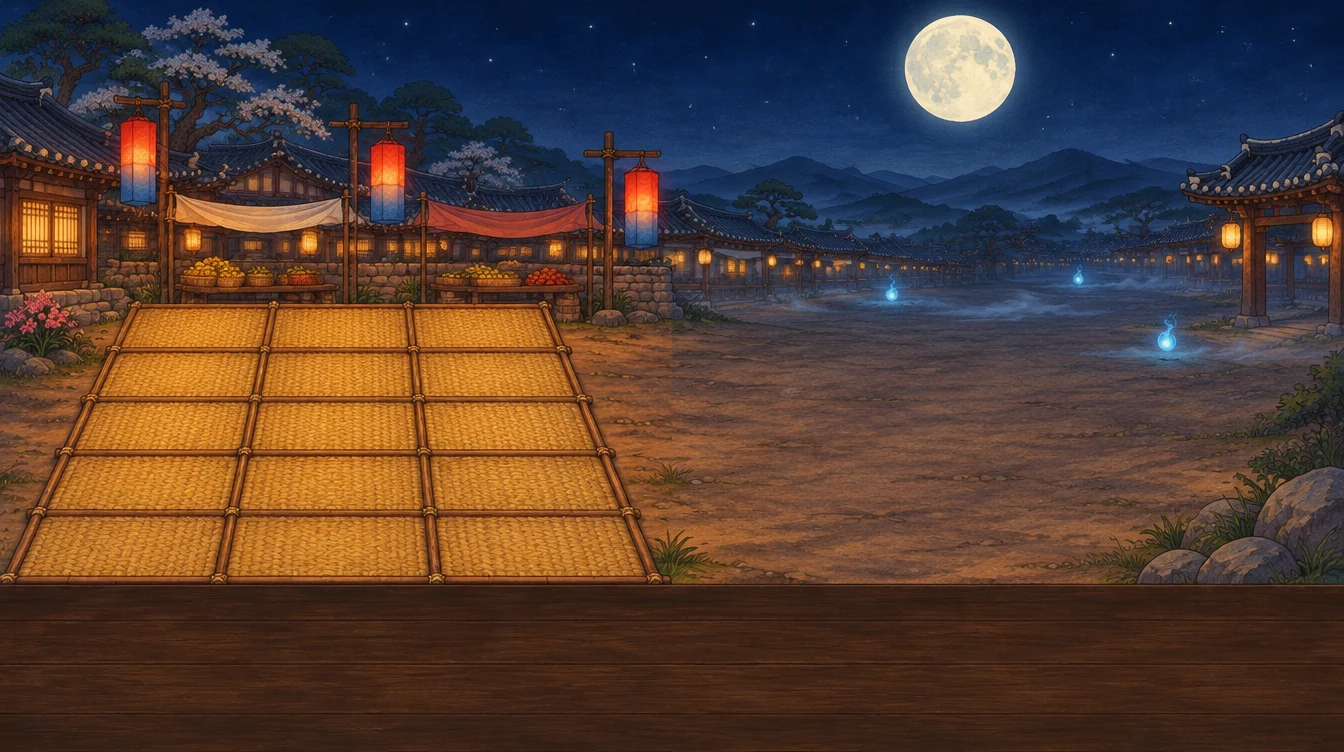
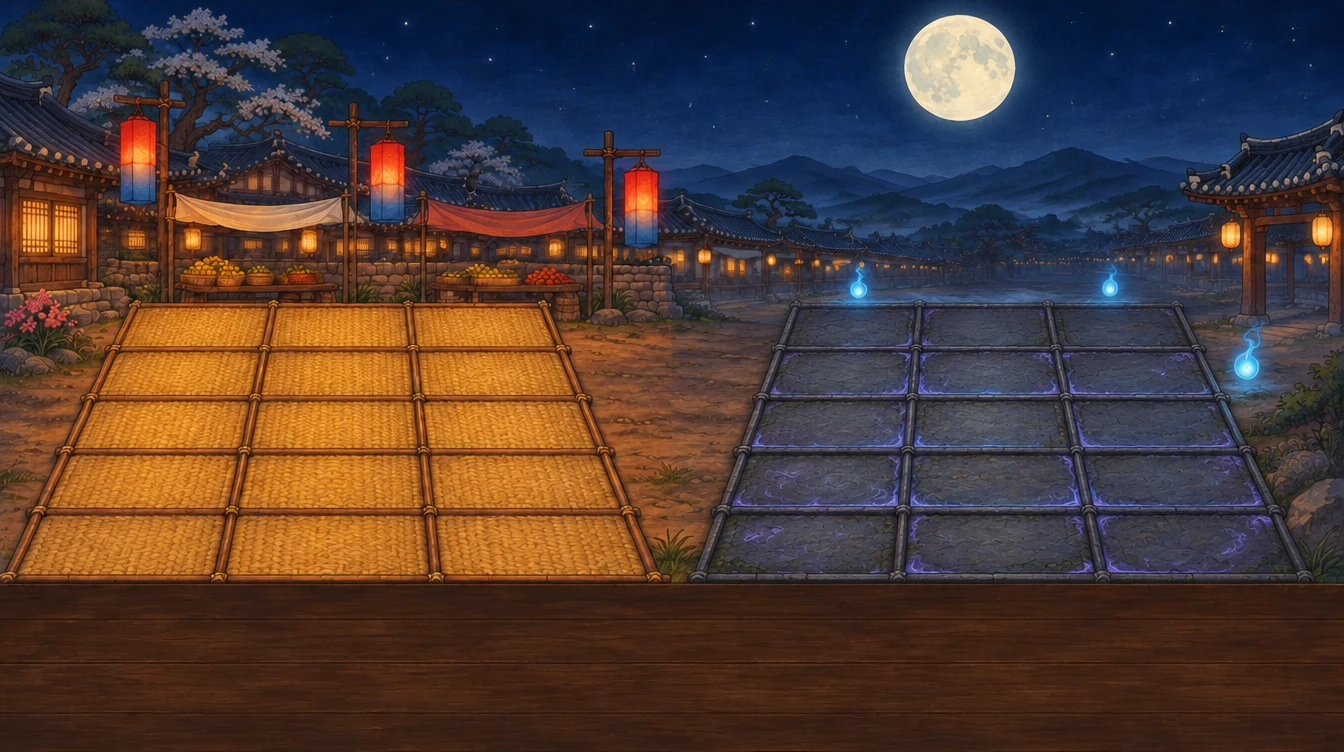
진판 배경 대칭판으로 교체
Claude-Session: https://claude.ai/code/session_01X3WCR5nTXLkTaQuYbPMPiQ

diff --git a/game-design/art/달밤진법/README.md b/game-design/art/달밤진법/README.md
@@ -9,3 +9,9 @@
 진판 배경 안 칸 위치(1344×752 기준, 원근 사다리꼴, 3열 × 5줄 멍석):
 - 왼쪽 위 (130, 305) · 오른쪽 위 (559, 305) · 왼쪽 아래 (15, 580) · 오른쪽 아래 (653, 580)
 - 오른쪽 길(요괴가 오는 곳) x 660~1344, 아래 UI 띠 y 583~752(빈 나무 바닥)
+
+## 진판 배경 교체 (11/23, 진 대 진 맞붙기)
+`jin_board_bg.webp`를 대칭판으로 교체(job b3afc011, 이전 판 1a9a2802를 고쳐 그림). 1344×752 기준 꼭짓점:
+- 우리 진(왼쪽 멍석 3열×5줄): 왼위 (128,303) · 오위 (553,303) · 왼아래 (15,578) · 오아래 (657,578)
+- 요괴 진(오른쪽 돌판 3열×5줄): 왼위 (795,303) · 오위 (1188,303) · 왼아래 (700,578) · 오아래 (1308,578)
+- 가운데 흙길 x 660~700, 아래 UI 띠 y 585~752
